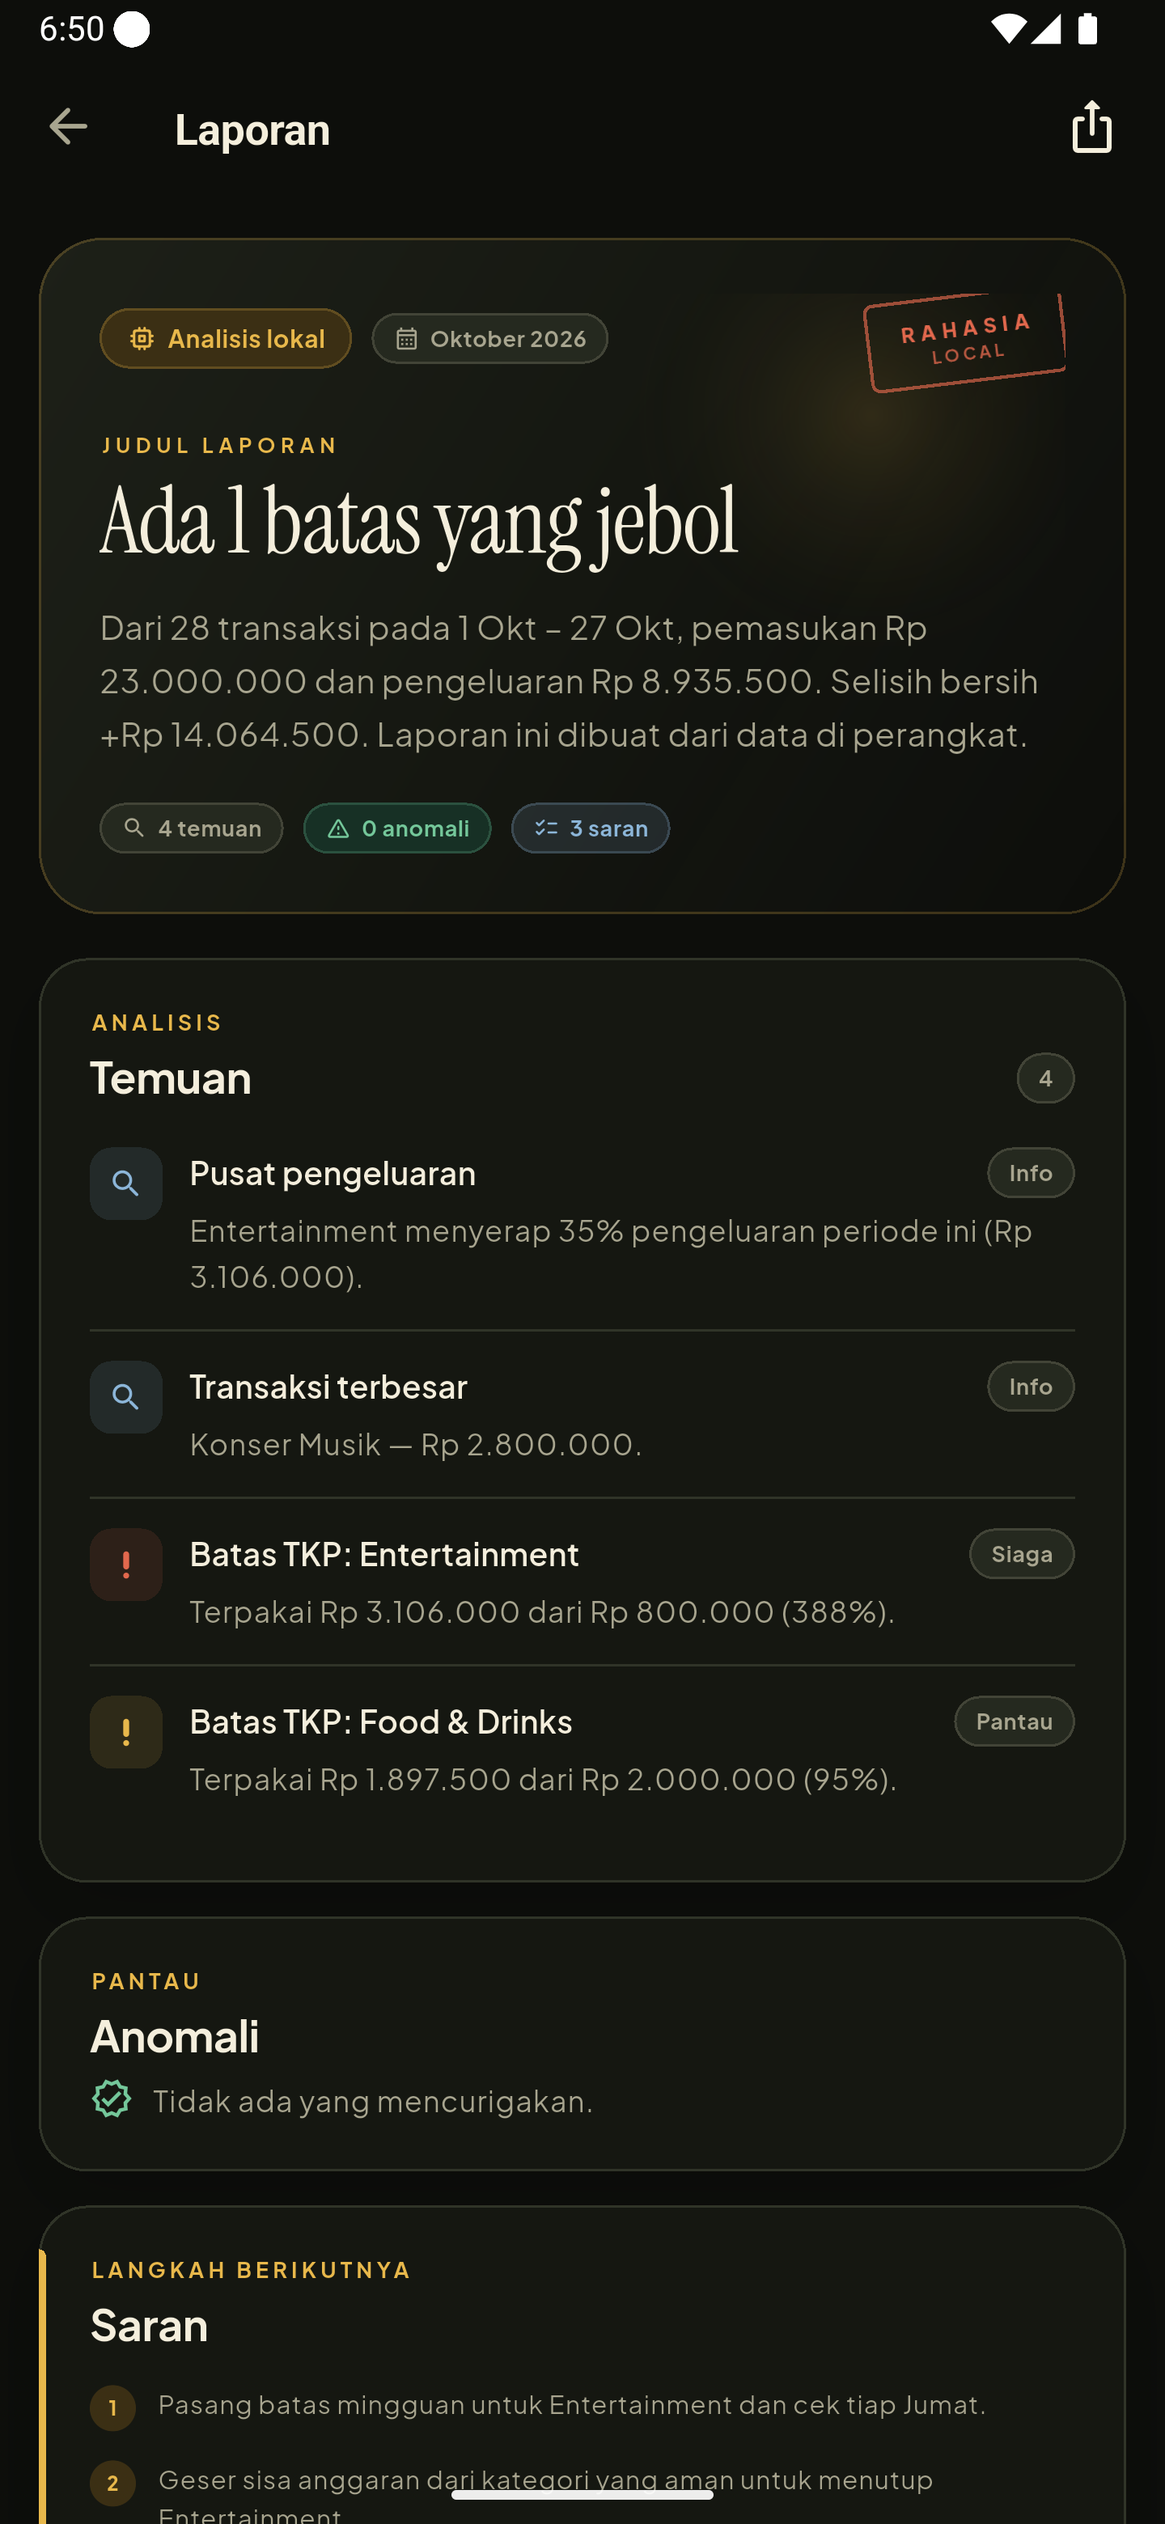
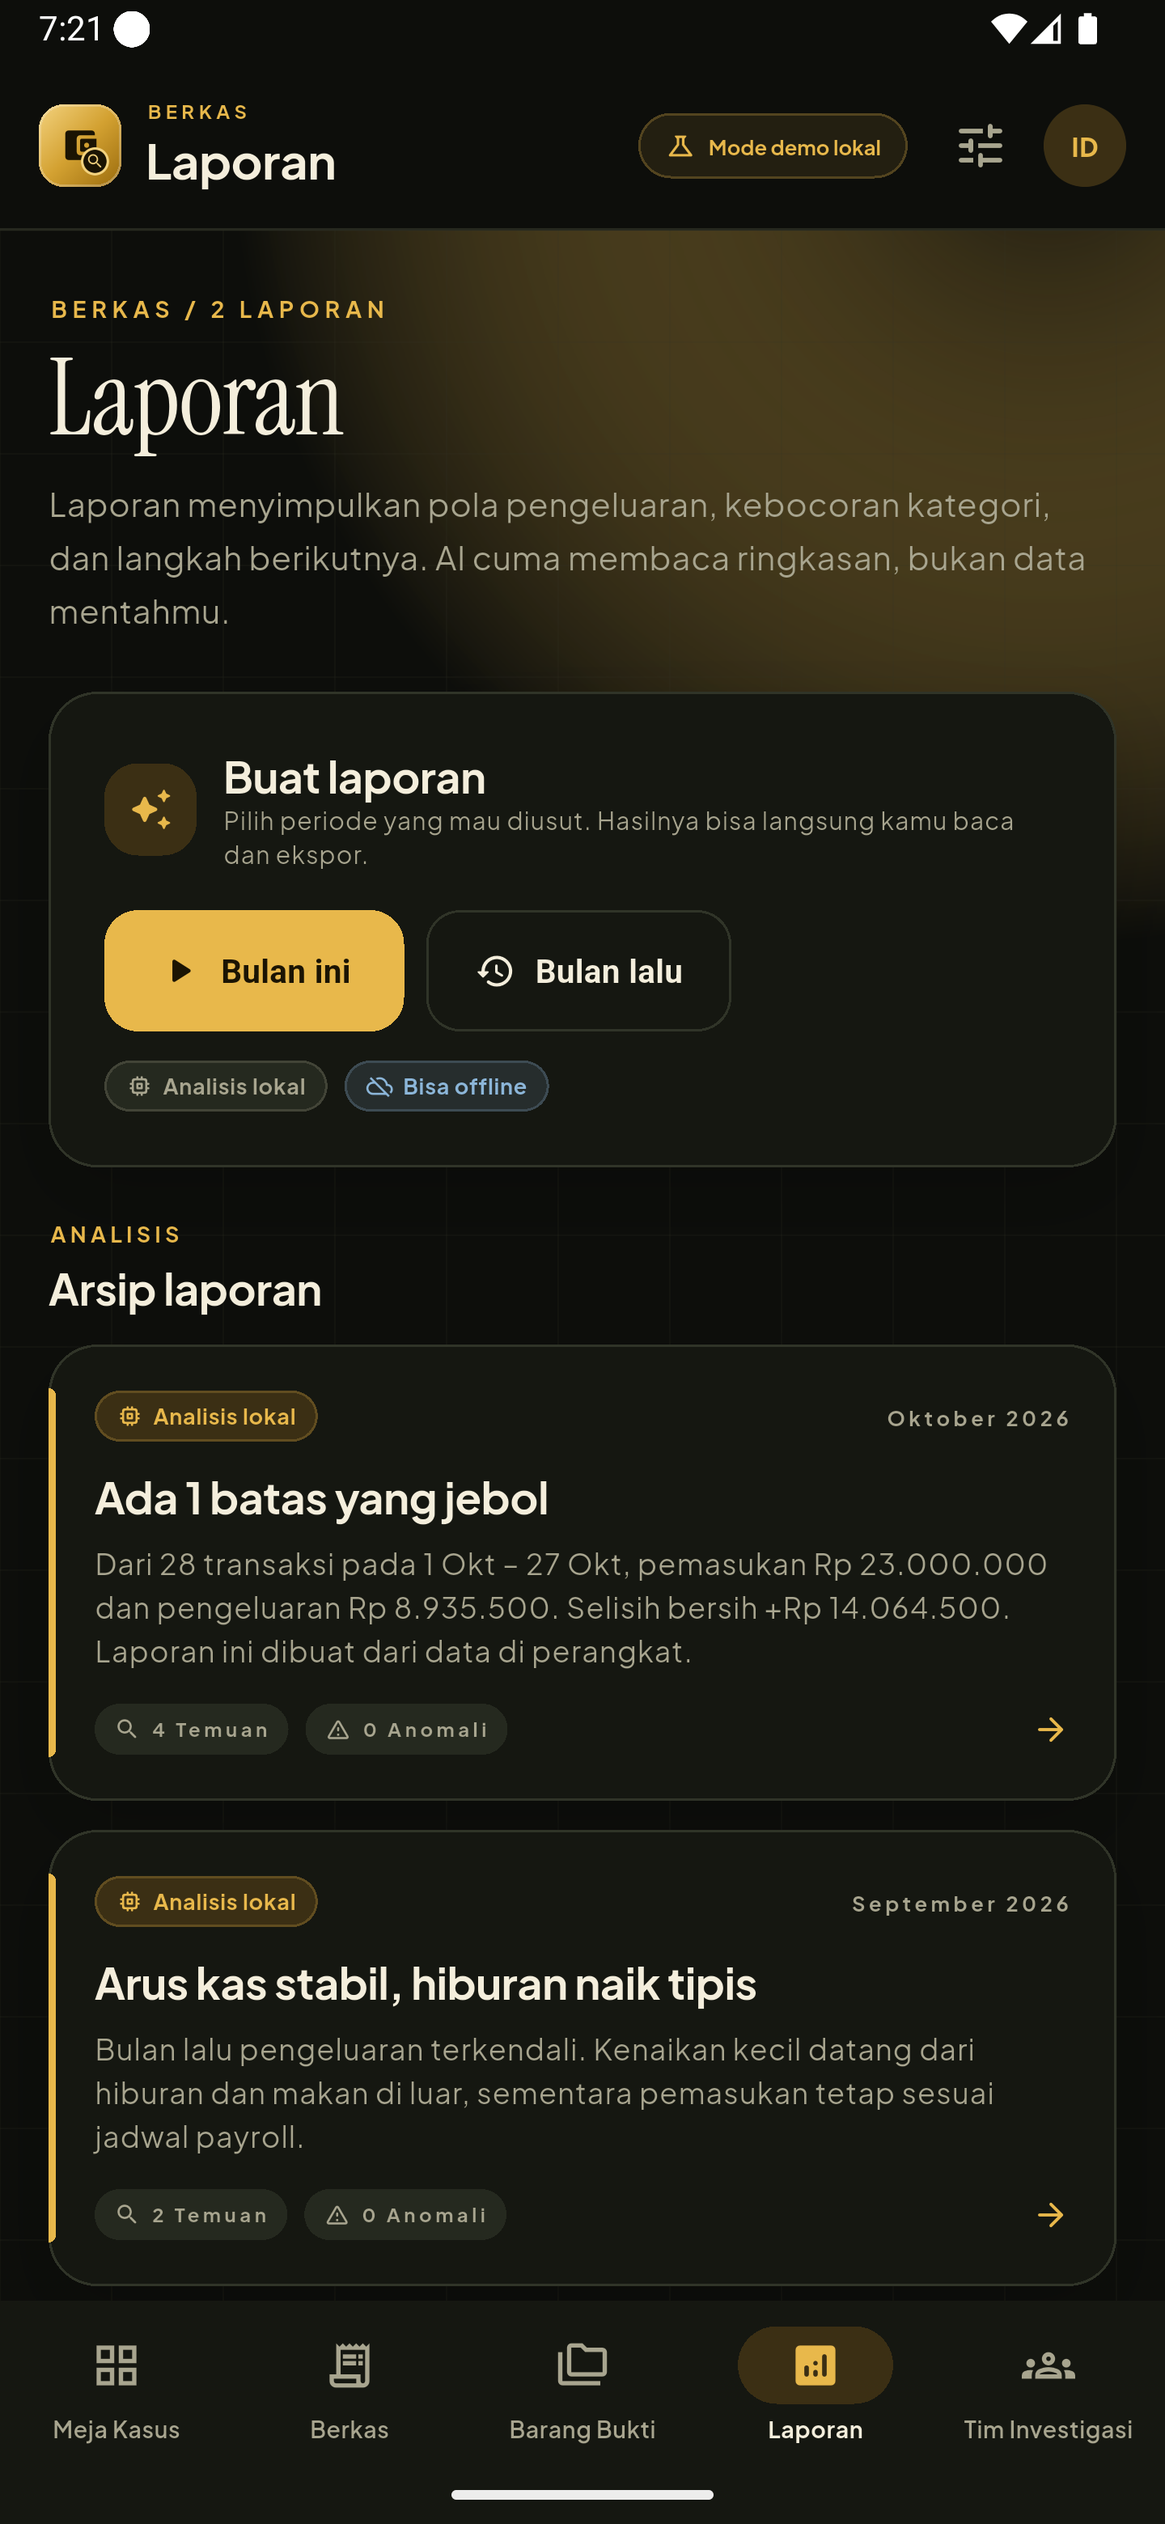
feat(project): embed the live site natively and show all screenshots

diff --git a/lib/shared/presentation/widgets/phone/project_screens_gallery.dart b/lib/shared/presentation/widgets/phone/project_screens_gallery.dart
@@ -1,3 +1,5 @@
+import 'dart:math' as math;
+
 import 'package:flutter/material.dart';
 import 'package:folio/core/theme/folio_theme.dart';
 import 'package:folio/domain/entities/project.dart';
@@ -13,45 +15,80 @@ class ProjectScreensGallery extends StatelessWidget {
   final Project project;
   final double phoneWidth;
 
+  static const double _gap = 20;
+
   @override
   Widget build(BuildContext context) {
     final colors = context.folio;
     final count = project.hasScreenshots ? project.screenshots.length : 3;
-    final totalWidth = phoneWidth * count + 20 * (count - 1);
+    final captionStyle = Theme.of(context).textTheme.labelSmall?.copyWith(
+      fontSize: 9.5,
+      letterSpacing: 0.9,
+      color: colors.inkMuted,
+    );
+
+    Widget screen(int index, double width) {
+      return Column(
+        children: [
+          PhoneMockup(project: project, variant: index, width: width),
+          const SizedBox(height: 11),
+          Text(
+            project.screenshotAt(index)?.label ??
+                const ['Utama', 'Detail', 'Ringkasan'][index],
+            style: captionStyle,
+            textAlign: TextAlign.center,
+          ),
+        ],
+      );
+    }
 
     return LayoutBuilder(
       builder: (context, constraints) {
-        final fits = totalWidth <= constraints.maxWidth;
-        final screens = Row(
-          mainAxisSize: MainAxisSize.min,
-          crossAxisAlignment: CrossAxisAlignment.start,
-          children: [
-            for (var i = 0; i < count; i++) ...[
-              if (i > 0) const SizedBox(width: 20),
-              Column(
+        // Real captures are shown as a grid so every screenshot is visible at
+        // once; generated previews stay in a single scrollable row.
+        final grid = project.hasScreenshots;
+        const minItemWidth = 158.0;
+        final maxWidth = constraints.maxWidth;
+        var columns = count;
+        var itemWidth = phoneWidth;
+        if (grid) {
+          final natural = ((maxWidth + _gap) / (phoneWidth + _gap)).floor();
+          columns = math.min(count, math.max(2, natural));
+          itemWidth = (maxWidth - _gap * (columns - 1)) / columns;
+          if (itemWidth < minItemWidth) {
+            columns = math.max(1, columns - 1);
+            itemWidth = (maxWidth - _gap * (columns - 1)) / columns;
+          }
+          itemWidth = math.min(itemWidth, phoneWidth);
+        }
+        final fits = itemWidth * columns + _gap * (columns - 1) <= maxWidth;
+
+        final screens = grid
+            ? Wrap(
+                spacing: _gap,
+                runSpacing: 22,
+                alignment: WrapAlignment.center,
                 children: [
-                  PhoneMockup(project: project, variant: i, width: phoneWidth),
-                  const SizedBox(height: 11),
-                  Text(
-                    project.screenshotAt(i)?.label ??
-                        const ['Utama', 'Detail', 'Ringkasan'][i],
-                    style: Theme.of(context).textTheme.labelSmall?.copyWith(
-                      fontSize: 9.5,
-                      letterSpacing: 0.9,
-                      color: colors.inkMuted,
-                    ),
-                  ),
+                  for (var i = 0; i < count; i++)
+                    SizedBox(width: itemWidth, child: screen(i, itemWidth)),
                 ],
-              ),
-            ],
-          ],
-        );
+              )
+            : Row(
+                mainAxisSize: MainAxisSize.min,
+                crossAxisAlignment: CrossAxisAlignment.start,
+                children: [
+                  for (var i = 0; i < count; i++) ...[
+                    if (i > 0) const SizedBox(width: _gap),
+                    screen(i, itemWidth),
+                  ],
+                ],
+              );
 
         return Column(
           crossAxisAlignment: CrossAxisAlignment.start,
           children: [
-            if (fits)
-              Center(child: screens)
+            if (fits || grid)
+              screens
             else
               SingleChildScrollView(
                 scrollDirection: Axis.horizontal,
@@ -59,22 +96,22 @@ class ProjectScreensGallery extends StatelessWidget {
                 padding: const EdgeInsets.only(bottom: 4),
                 child: screens,
               ),
-            const SizedBox(height: 10),
+            const SizedBox(height: 14),
             Row(
               children: [
                 Icon(
-                  fits ? Icons.grid_view_rounded : Icons.swipe_rounded,
+                  grid ? Icons.photo_library_outlined : Icons.swipe_rounded,
                   size: 13,
                   color: colors.inkMuted,
                 ),
                 const SizedBox(width: 6),
                 Expanded(
                   child: Text(
-                    fits
-                        ? (project.hasScreenshots
-                              ? 'Tangkapan layar asli dari aplikasi.'
-                              : 'Tiga layar utama, dari alur sampai ringkasan.')
-                        : 'Geser untuk melihat pratinjau',
+                    grid
+                        ? '$count tangkapan layar asli dari aplikasi.'
+                        : (fits
+                              ? 'Tiga layar utama, dari alur sampai ringkasan.'
+                              : 'Geser untuk melihat pratinjau'),
                     maxLines: 1,
                     overflow: TextOverflow.ellipsis,
                     style: Theme.of(context).textTheme.bodySmall?.copyWith(

diff --git a/lib/features/project/presentation/widgets/website_preview_section.dart b/lib/features/project/presentation/widgets/website_preview_section.dart
@@ -105,7 +105,7 @@ class _WebsitePreviewSectionState extends State<WebsitePreviewSection> {
                 Text(
                   kIsWeb
                       ? 'Jelajahi situsnya langsung di sini, atau buka di tab baru.'
-                      : 'Di sini cuma pratinjau statis—buka situsnya untuk pengalaman penuh.',
+                      : 'Situs live tampil langsung di sini—geser di dalam bingkai atau buka di tab baru.',
                   style: theme.textTheme.bodySmall?.copyWith(
                     fontSize: 11,
                     color: colors.inkMuted,
@@ -118,16 +118,15 @@ class _WebsitePreviewSectionState extends State<WebsitePreviewSection> {
               runSpacing: 7,
               alignment: WrapAlignment.end,
               children: [
-                if (kIsWeb)
-                  OutlinedButton.icon(
-                    onPressed: () => setState(() => _reloadToken += 1),
-                    style: OutlinedButton.styleFrom(
-                      minimumSize: const Size(0, 42),
-                      padding: const EdgeInsets.symmetric(horizontal: 13),
-                    ),
-                    icon: const Icon(Icons.refresh_rounded, size: 16),
-                    label: const Text('Muat ulang'),
+                OutlinedButton.icon(
+                  onPressed: () => setState(() => _reloadToken += 1),
+                  style: OutlinedButton.styleFrom(
+                    minimumSize: const Size(0, 42),
+                    padding: const EdgeInsets.symmetric(horizontal: 13),
                   ),
+                  icon: const Icon(Icons.refresh_rounded, size: 16),
+                  label: const Text('Muat ulang'),
+                ),
                 FilledButton.icon(
                   onPressed: canOpenDirectly
                       ? () => openExternalLink(
@@ -160,7 +159,7 @@ class _WebsitePreviewSectionState extends State<WebsitePreviewSection> {
                     fallbackMessage: 'Situsnya belum bisa dibuka dari preview.',
                   )
                 : _showDirectFallback(context),
-            onReload: kIsWeb ? () => setState(() => _reloadToken += 1) : null,
+            onReload: () => setState(() => _reloadToken += 1),
             child: resolvedUri == null
                 ? WebsiteArtwork(project: project)
                 : WebsiteEmbed(
@@ -179,7 +178,7 @@ class _WebsitePreviewSectionState extends State<WebsitePreviewSection> {
                 child: Text(
                   canOpenDirectly
                       ? 'Kamu bisa tetap di halaman ini atau buka situsnya langsung di tab baru.'
-                      : 'Preview ini cuma tersedia saat dibuka di web. Di aplikasi native, buka tautannya langsung.',
+                      : 'Proyek ini belum punya situs live untuk ditampilkan.',
                   style: theme.textTheme.bodySmall?.copyWith(
                     fontSize: 10,
                     height: 1.5,
@@ -197,9 +196,7 @@ class _WebsitePreviewSectionState extends State<WebsitePreviewSection> {
   void _showDirectFallback(BuildContext context) {
     showFolioSnackBar(
       context,
-      message:
-          'Preview langsung cuma ada di versi web. '
-          'Di sini kamu tetap bisa lihat pratinjau statisnya.',
+      message: 'Proyek ini belum punya situs live untuk dibuka.',
       actionLabel: 'Salin tautan',
       onAction: () =>
           Clipboard.setData(ClipboardData(text: widget.project.liveUrl ?? '')),

diff --git a/lib/shared/presentation/widgets/website/website_embed_io.dart b/lib/shared/presentation/widgets/website/website_embed_io.dart
@@ -1,0 +1,93 @@
+import 'dart:io';
+
+import 'package:flutter/material.dart';
+import 'package:webview_flutter/webview_flutter.dart';
+
+/// Renders the live site in an embedded browser on Android and iOS.
+///
+/// Desktop builds (and platforms without a WebView plugin) fall back to the
+/// designed artwork.
+class WebsiteEmbed extends StatefulWidget {
+  const WebsiteEmbed({super.key, required this.url, required this.fallback});
+
+  final String url;
+  final Widget fallback;
+
+  @override
+  State<WebsiteEmbed> createState() => _WebsiteEmbedState();
+}
+
+class _WebsiteEmbedState extends State<WebsiteEmbed> {
+  static bool get _supported => Platform.isAndroid || Platform.isIOS;
+
+  WebViewController? _controller;
+  bool _loading = true;
+  bool _failed = false;
+  int _progress = 0;
+
+  @override
+  void initState() {
+    super.initState();
+    if (!_supported) return;
+    final uri = Uri.tryParse(widget.url);
+    if (uri == null) {
+      _failed = true;
+      return;
+    }
+    _controller = WebViewController()
+      ..setJavaScriptMode(JavaScriptMode.unrestricted)
+      ..setBackgroundColor(const Color(0xFFF5F3EE))
+      ..setNavigationDelegate(
+        NavigationDelegate(
+          onProgress: (value) {
+            if (!mounted) return;
+            setState(() => _progress = value);
+          },
+          onPageStarted: (_) {
+            if (!mounted) return;
+            setState(() {
+              _loading = true;
+              _failed = false;
+            });
+          },
+          onPageFinished: (_) {
+            if (!mounted) return;
+            setState(() {
+              _loading = false;
+              _progress = 100;
+            });
+          },
+          onWebResourceError: (error) {
+            if (!mounted) return;
+            if (error.isForMainFrame ?? true) {
+              setState(() {
+                _loading = false;
+                _failed = true;
+              });
+            }
+          },
+        ),
+      )
+      ..loadRequest(uri);
+  }
+
+  @override
+  Widget build(BuildContext context) {
+    final controller = _controller;
+    if (controller == null || _failed) return widget.fallback;
+    return Stack(
+      fit: StackFit.expand,
+      children: [
+        WebViewWidget(controller: controller),
+        if (_loading)
+          Align(
+            alignment: Alignment.topCenter,
+            child: LinearProgressIndicator(
+              value: _progress <= 0 ? null : _progress / 100,
+              minHeight: 2.5,
+            ),
+          ),
+      ],
+    );
+  }
+}

diff --git a/macos/Flutter/GeneratedPluginRegistrant.swift b/macos/Flutter/GeneratedPluginRegistrant.swift
@@ -7,8 +7,10 @@ import Foundation
 
 import shared_preferences_foundation
 import url_launcher_macos
+import webview_flutter_wkwebview
 
 func RegisterGeneratedPlugins(registry: FlutterPluginRegistry) {
   SharedPreferencesPlugin.register(with: registry.registrar(forPlugin: "SharedPreferencesPlugin"))
   UrlLauncherPlugin.register(with: registry.registrar(forPlugin: "UrlLauncherPlugin"))
+  WebViewFlutterPlugin.register(with: registry.registrar(forPlugin: "WebViewFlutterPlugin"))
 }

diff --git a/test/data/portfolio_json_data_source_test.dart b/test/data/portfolio_json_data_source_test.dart
@@ -55,7 +55,7 @@ void main() {
         (project) => project.id == id,
       );
       expect(project.hasScreenshots, isTrue, reason: id);
-      expect(project.screenshots, hasLength(3), reason: id);
+      expect(project.screenshots, hasLength(6), reason: id);
       for (final screenshot in project.screenshots) {
         expect(screenshot.label, isNotEmpty);
         expect(screenshot.asset, startsWith('assets/screenshots/'));

diff --git a/lib/shared/presentation/widgets/website/website_embed.dart b/lib/shared/presentation/widgets/website/website_embed.dart
@@ -1,2 +1,3 @@
 export 'website_embed_stub.dart'
-    if (dart.library.js_interop) 'website_embed_web.dart';
+    if (dart.library.js_interop) 'website_embed_web.dart'
+    if (dart.library.io) 'website_embed_io.dart';

diff --git a/README.md b/README.md
@@ -10,8 +10,8 @@ Portofolio saya, disusun seperti app store: **Muhammad Tegar Pamungkas**, Full S
 
 - **Storefront yang dikurasi** — hero editorial, carousel proyek pilihan, rilis terbaru, dan kategori.
 - **Pencarian & filter** — cari berdasarkan nama, tagline, teknologi, atau kategori secara langsung.
-- **Halaman detail bergaya app listing** — ikon, metadata proyek, galeri tiga layar dari tangkapan layar asli aplikasi (dengan artwork generatif sebagai fallback), cerita proyek, fitur, catatan rilis, dan proyek terkait.
-- **Live web preview** — proyek website bisa langsung tampil di halaman detail lewat iframe saat dibuka di web, dengan tombol **Buka langsung** ke tab baru. Aplikasi mobile yang punya web build juga menampilkan preview web di bawah layar ponsel. Di native, preview memakai artwork statis dengan opsi direct.
+- **Halaman detail bergaya app listing** — ikon, metadata proyek, galeri tangkapan layar asli aplikasi (dengan artwork generatif sebagai fallback), cerita proyek, fitur, catatan rilis, dan proyek terkait.
+- **Live web preview** — proyek website bisa langsung tampil di halaman detail lewat iframe saat dibuka di web, dan lewat WebView di Android/iOS, dengan tombol **Buka langsung** ke browser. Aplikasi mobile yang punya web build juga menampilkan preview web di bawah galeri layar ponsel.
 - **Tautan proyek** — repo GitHub, web demo, dan unduhan APK tampil sebagai kartu tautan di halaman detail.
 - **Koleksi tersimpan** — simpan proyek dengan `SharedPreferences`; data tetap ada setelah aplikasi dibuka ulang.
 - **Tentang saya** — bio, prinsip kerja, keahlian, pengalaman, pendidikan, organisasi, sosial, dan preferensi tema.
@@ -222,11 +222,11 @@ Tidak ada form edit konten di UI. Untuk memperbarui portofolio, edit JSON lalu r
 
 ### Live web preview
 
-Halaman detail memakai iframe untuk proyek yang punya `liveUrl`. Aplikasi mobile dengan web build—seperti Dompetektif—menampilkan preview web di bawah mockup ponsel, sedangkan proyek website memakainya sebagai preview utama.
+Halaman detail menampilkan situs live proyek yang punya `liveUrl`: iframe di web, WebView di Android/iOS (lihat `website_embed_web.dart` dan `website_embed_io.dart`). Aplikasi mobile dengan web build—seperti Dompetektif—menampilkan preview web di bawah galeri tangkapan layar, sedangkan proyek website memakainya sebagai preview utama.
 
-- URL absolut seperti `https://mtegarpamungkas.github.io/dompetektif/` langsung dipakai di web dan native.
+- URL absolut seperti `https://mtegarpamungkas.github.io/dompetektif/` dipakai di web, Android, dan iOS.
 - URL relatif seperti `sites/demo.html` di-resolve ke host aplikasi saat dibuka di web.
-- Beberapa situs eksternal memblokir iframe lewat header keamanan; opsi **Buka langsung** tetap tersedia.
+- Kalau WebView/iframe gagal dimuat, tampil artwork statis sebagai fallback dan tombol **Muat ulang** tetap tersedia.
 
 ### Warna visual proyek
 
